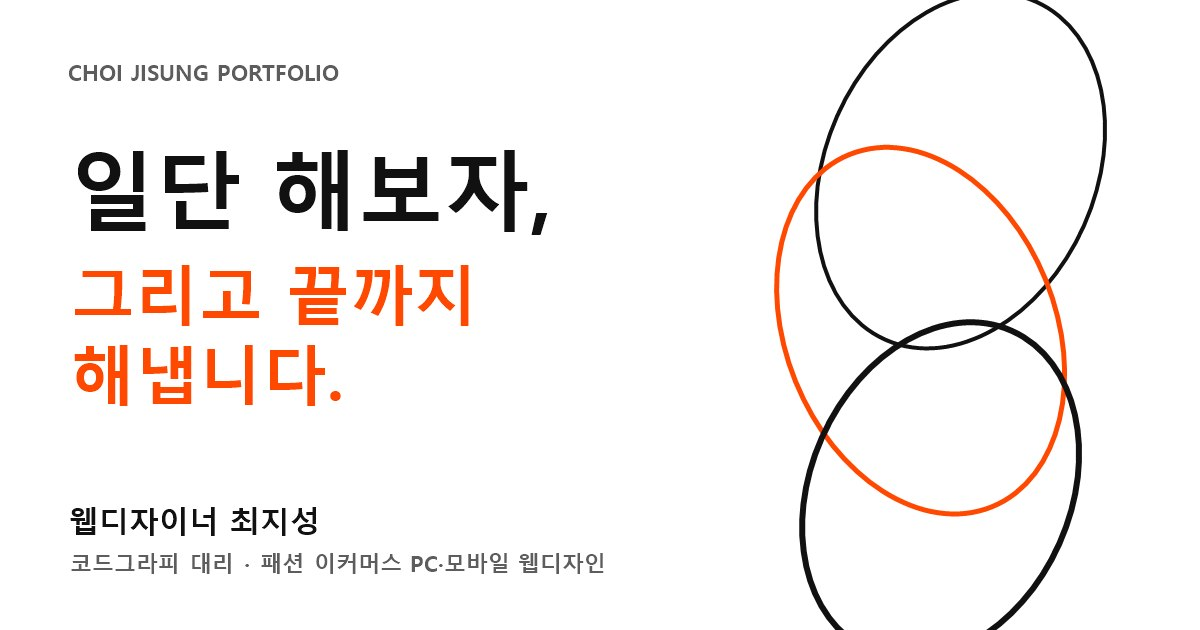
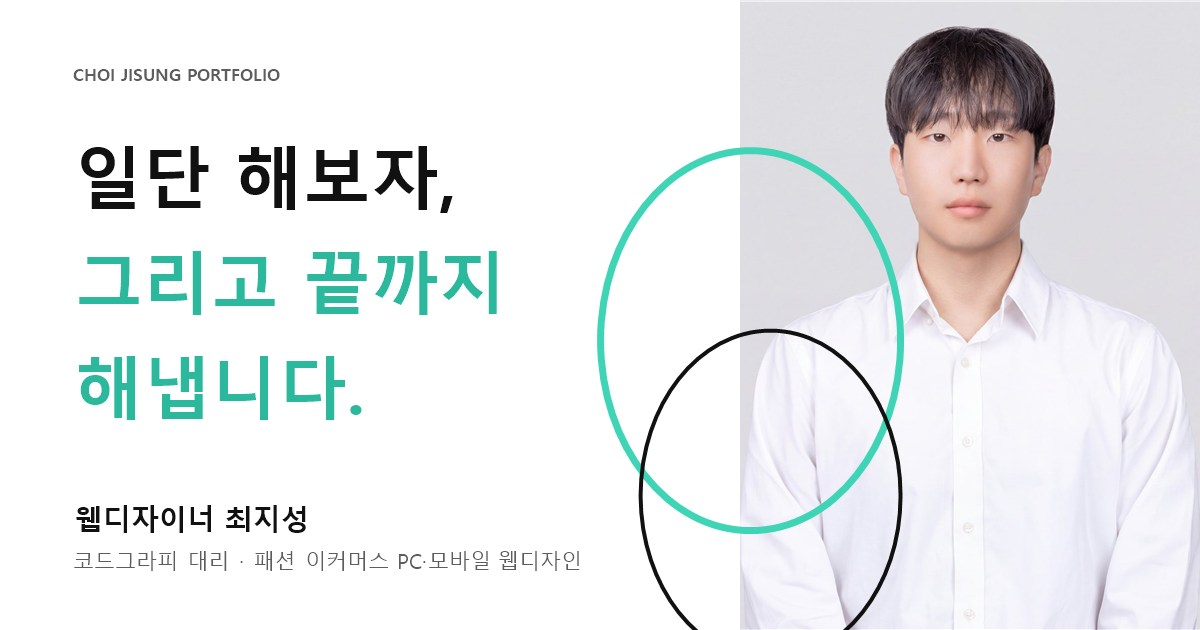
Link preview cover: new OG image with ID photo and mint accent

diff --git a/index.html b/index.html
@@ -22,11 +22,11 @@
 <!-- 주소를 바꾸면(커스텀 도메인 등) 아래 주소를 모두 새 주소로 고치세요. og:image는 https:// 전체 주소여야 합니다 -->
 <link rel="canonical" href="https://jisung-gules.vercel.app/">
 <meta property="og:url" content="https://jisung-gules.vercel.app/">
-<meta property="og:image" content="https://jisung-gules.vercel.app/images/og.jpg">
+<meta property="og:image" content="https://jisung-gules.vercel.app/images/og.jpg?v=2">
 <meta property="og:image:width" content="1200">
 <meta property="og:image:height" content="630">
 <meta property="og:image:alt" content="일단 해보자, 그리고 끝까지 해냅니다. 웹디자이너 최지성 포트폴리오">
-<meta name="twitter:image" content="https://jisung-gules.vercel.app/images/og.jpg">
+<meta name="twitter:image" content="https://jisung-gules.vercel.app/images/og.jpg?v=2">
 
 <!-- 구조화 데이터: 검색엔진이 '누구인지, 무슨 일을 하는지' 이해하도록 돕습니다 -->
 <script type="application/ld+json">
